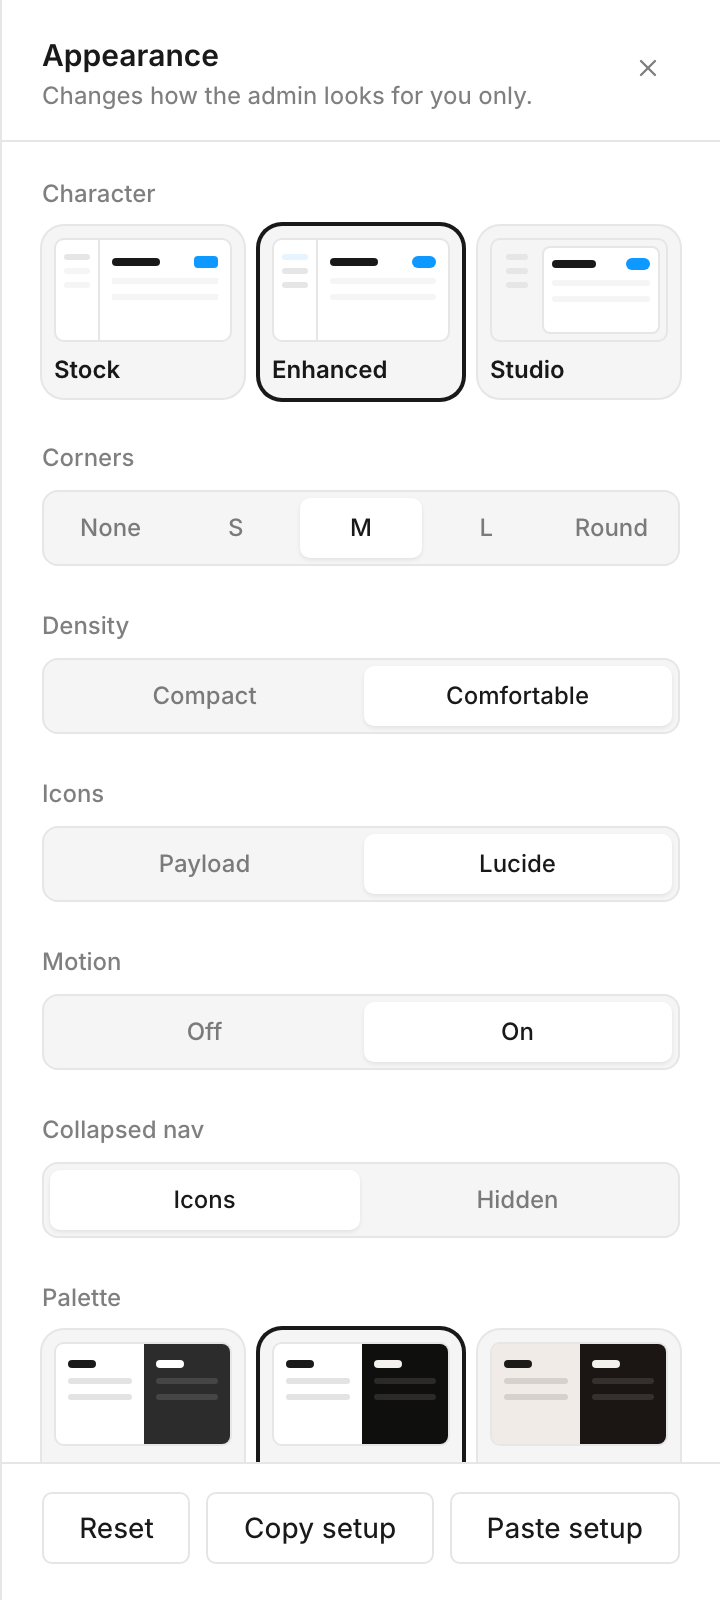
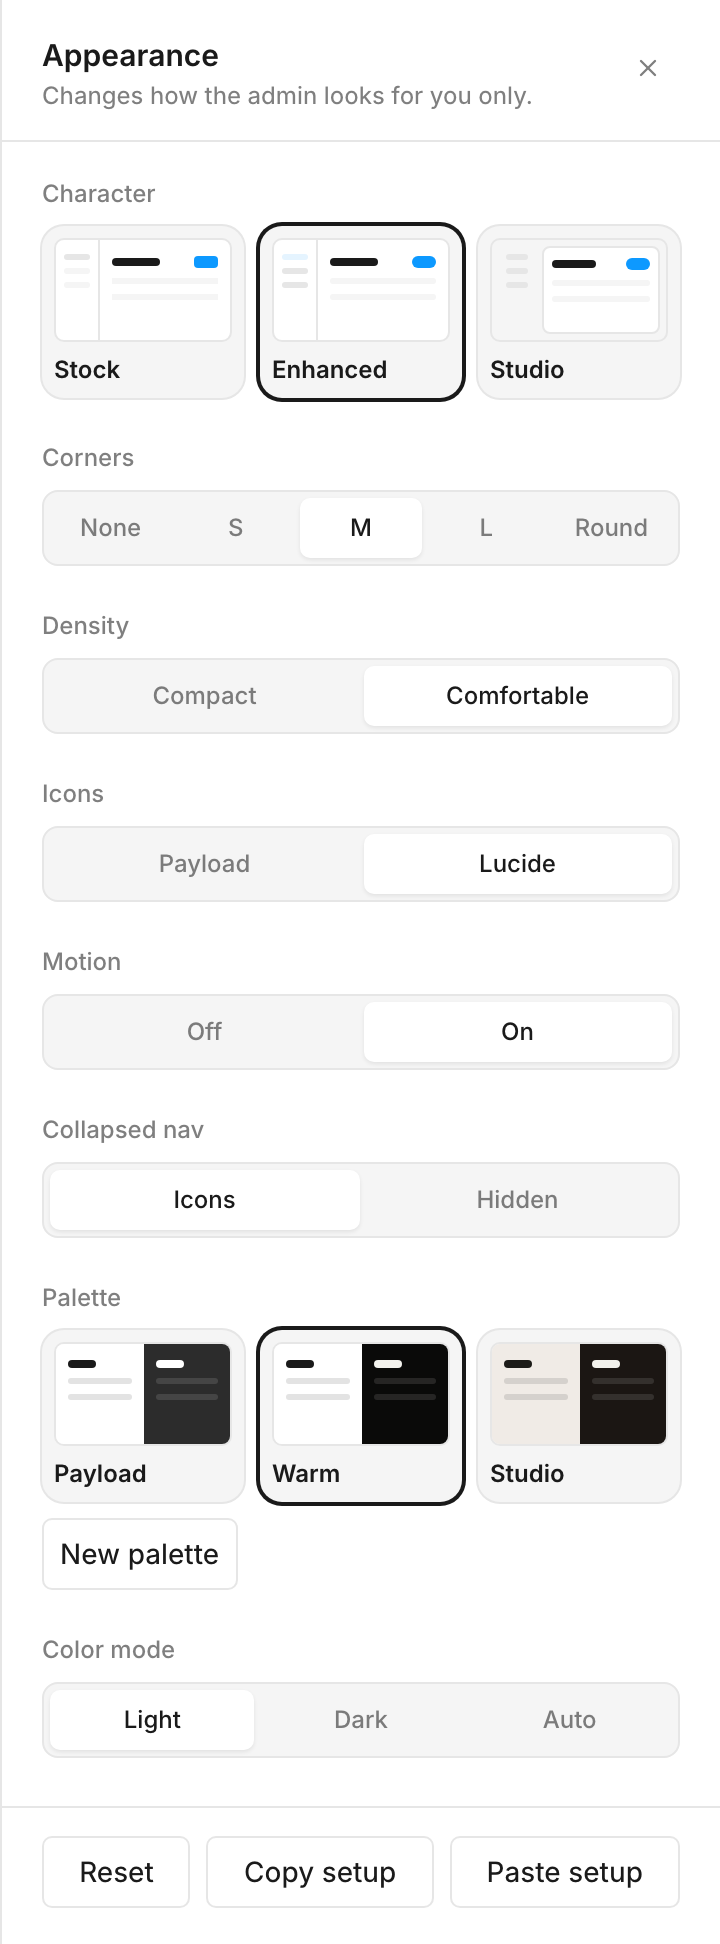
test(screenshots): show the whole Appearance panel
The panel shot clipped the sheet at the viewport height, so the
palette section never showed. The shot now sizes the viewport to the
panel's content.

diff --git a/apps/demo/tests/screenshots.ts b/apps/demo/tests/screenshots.ts
@@ -60,7 +60,11 @@ for (const theme of ['dark', 'light']) {
     }
 
     await openShowcase(page, looks.themed, theme)
-    await openAppearancePanel(page)
+    const sheet = await openAppearancePanel(page)
+    const height = await sheet.evaluate((element) =>
+      [...element.children].reduce((sum, child) => sum + Math.max(child.scrollHeight, (child as HTMLElement).offsetHeight), 0)
+    )
+    await page.setViewportSize({ height: Math.ceil(height), width: 1280 })
     await page.mouse.move(0, 0)
     await expect(page).toHaveScreenshot(`appearance-${theme}.png`, {
       clip: await box(page, '.payloadpack-appearance-panel__sheet')
